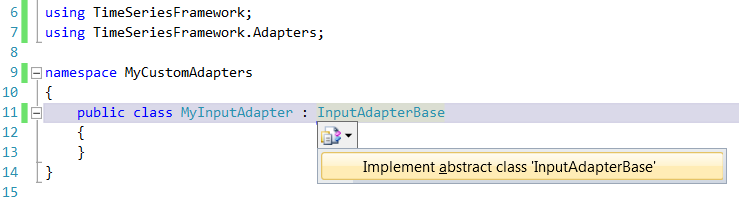
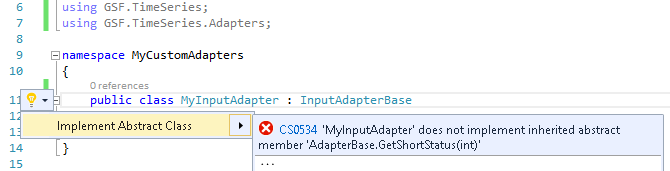
Updated the documentation for developing custom adapters to reference the latest assemblies and namespaces.

Changed region(s): [[0.0, 0.0, 1.0, 0.9649], [0.0, 0.9064, 0.0299, 0.9942]]

diff --git a/Source/Documentation/wiki/Developers_Custom_Adapters.md b/Source/Documentation/wiki/Developers_Custom_Adapters.md
@@ -87,12 +87,12 @@ If you feel that one of these adapters suits your needs, continue reading.<br>
 <ol>
 <li>In the Solution Explorer within Visual Studio, right-click &quot;References&quot; and select &quot;Add Reference...&quot;
 </li><li>Select the &quot;Browse&quot; tab and navigate to your <a href="https://github.com/GridProtectionAlliance/openPDC/tree/master/Source/Documentation/wiki/Getting_Started.md#install_directory">
-installation directory</a>. </li><li>Select &quot;TVA.Core.dll&quot; and &quot;TimeSeriesFramework.dll&quot;, then choose &quot;OK&quot;.
+installation directory</a>. </li><li>Select &quot;GSF.Core.dll&quot; and &quot;GSF.TimeSeries.dll&quot;, then choose &quot;OK&quot;.
 </li><li>At the top of the autogenerated class file, add the following code to the existing using statements.
 </li></ol>
 <div style="color:black; background-color:white">
-<pre><span style="color:blue">using</span> TimeSeriesFramework;
-<span style="color:blue">using</span> TimeSeriesFramework.Adapters;
+<pre><span style="color:blue">using</span> GSF.TimeSeries;
+<span style="color:blue">using</span> GSF.TimeSeries.Adapters;
 </pre>
 </div>
 <hr>
@@ -121,7 +121,7 @@ installation directory</a>. </li><li>Select &quot;TVA.Core.dll&quot; and &quot;T
 </pre>
 </div>
 <p><br>
-Once you have properly entered the class definition, you can quickly generate definitions for abstract methods defined in the base class. Click on the name of the base class, click the icon that appears underneath it and click the option labeled &quot;Implement
+Once you have properly entered the class definition, you can quickly generate definitions for abstract methods defined in the base class. Click on the name of the base class, click the icon that appears at the far left of the line and click the option labeled &quot;Implement
  abstract class&quot;. The following image shows the use of this feature.<br>
 <br>
 <img title="implement_base_class.png" src="https://github.com/GridProtectionAlliance/openPDC/blob/master/Source/Documentation/wiki/Developers_Custom_Adapters.files/implement_base_class.png" alt="implement_base_class.png"></p>
@@ -305,30 +305,6 @@ GetShortStatus(int) is used by the system when listing adapters on the console. 
 }
 </pre>
 </div>
-<h4><a name="waitforinitialize_method"></a>WaitForInitialize() and WaitForInitialize(int)</h4>
-<p>If you feel the need to enter your custom code into the Start() method before calling
-<span class="codeInline">base.Start()</span>, then your code will bypass many of the safeguards that were placed in the base class. The WaitForInitialize() method was designed to help solve this problem. If your custom code relies on objects that are initialized
- in your Initialize() method, then you have the option of calling the WaitForInitialize() method manually.<br>
-<br>
-Additionally, if there is a possibility that your Initialize() method will never finish (for instance, if it throws an exception), then you can specify a timeout (in milliseconds) using the parameter in the WaitForInitialize(int) method. Typical use of WaitForInitialize(int)
- is shown in the following snippet.<br>
-<br>
-</p>
-<div style="color:black; background-color:white">
-<pre><span style="color:blue">public</span> <span style="color:blue">override</span> <span style="color:blue">void</span> Start()
-{
-    <span style="color:green">// Make sure we are disconnected before attempting a connection</span>
-    <span style="color:blue">if</span>(Enabled)
-        Stop();
-    WaitForInitialize(10000); <span style="color:green">// wait for ten seconds or until Initialize() is finished</span>
-    <span style="color:blue">if</span>(!Initialized)
-        <span style="color:blue">throw</span> <span style="color:blue">new</span> InvalidOperationException(<span style="color:#a31515">&quot;Timeout to wait for initialization expired.&quot;</span>
-                &#43; <span style="color:#a31515">&quot; Start() cannot run before Initialize() is finished.&quot;</span>);
-    <span style="color:green">// custom code goes here</span>
-    <span style="color:blue">base</span>.Start();
-}
-</pre>
-</div>
 <hr>
 <h3><a name="input_adapters"></a>Input adapters</h3>
 <p>This section will go over methods and properties defined for input adapters that are not defined for all adapter types.</p>
@@ -495,11 +471,11 @@ openPDC installation directory</a>.</p>
 <h3><a name="facile_action_adapter"></a>Facile action adapter</h3>
 <p>The facile action adapter is a very simple action adapter with no built-in measurement concentration capabilities. This requires more work, but also allows you to implement your own concentration algorithms when the built-in concentration supplied by ActionAdapterBase
  does not suit the needs of your custom adapter. This adapter type can also be used when an adapter needs to be placed in the action adapter layer, but does not need to process its own measurements. Like the
-<a href="#extend_base_class">previous adapter types</a>, the base class for this adapter is located in TimeSeriesFramework.Adapters namespace.<br>
+<a href="#extend_base_class">previous adapter types</a>, the base class for this adapter is located in the GSF.TimeSeries.Adapters namespace.<br>
 <br>
 </p>
 <div style="color:black; background-color:white">
-<pre><span style="color:blue">using</span> TVA.Measurements.Routing;
+<pre><span style="color:blue">using</span> GSF.TimeSeries.Adapters;
 <span style="color:blue">public</span> <span style="color:blue">class</span> MyFacileActionAdapter : FacileActionAdapter
 {
 }
@@ -520,12 +496,12 @@ all adapter types</a>, the following methods are available to facile action adap
 <p>The calculated measurement type is an extension of the regular action adapter type. This adapter is typically used when the custom adapter needs to calculate values based on its input measurements and reintroduce the calculated values as measurements back
  into the system. More generally, this adapter type can be used whenever the custom adapter needs to know the
 <a href="https://github.com/GridProtectionAlliance/openPDC/tree/master/Source/Documentation/wiki/Manual_Configuration.md#Measurement.SignalTypeID_column">
-signal type</a> of its input measurements. The base class for this adapter is located in the TVA.PhasorProtocols namespace. You will need to
-<a href="#add_references">add a reference</a> to &quot;TVA.PhasorProtocols.dll&quot; in order to use this adapter type.<br>
+signal type</a> of its input measurements. The base class for this adapter is located in the PhasorProtocolAdapters namespace. You will need to
+<a href="#add_references">add references</a> to &quot;GSF.PhasorProtocols.dll&quot; and &quot;PhasorProtocolAdapters.dll&quot; in order to use this adapter type.<br>
 <br>
 </p>
 <div style="color:black; background-color:white">
-<pre><span style="color:blue">using</span> TVA.PhasorProtocols;
+<pre><span style="color:blue">using</span> PhasorProtocolAdapters;
 <span style="color:blue">public</span> <span style="color:blue">class</span> MyCalculatedMeasurement : CalculatedMeasurementBase
 {
 }
